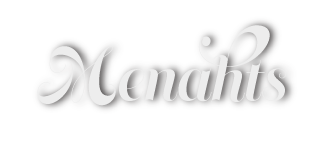
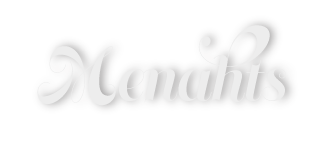
make edits

diff --git a/styles.css b/styles.css
@@ -1,15 +1,15 @@
 .cloud-bg img{
-  width: 1200px;
+  width: 1230px;
   height: auto;
   z-index: -10;
 }
 
 /* caption */
-.menohts img{
-    top: 524px;
-    left: 453px;
+.menohts img {
+    top: 505px;
+    left: 481px;
     position: absolute;
-    width: 272px;
+    width: 242px;
     z-index: 25;
 }
 
@@ -61,15 +61,15 @@
 /* glasses */
 .table img:nth-child(5) {
     top: 150px;
-    left: 463px;
+    left: 462px;
     position: absolute;
-    width: 20px;
+    width: 22px;
     padding: 40px;
     z-index: 250;
 }
 
 .table img:nth-child(5):hover {
-  animation: grow .3s linear infinite alternate;
+  animation: grow .2s linear infinite alternate;
 }
 
 @keyframes grow {
@@ -77,7 +77,7 @@
     transform: scale(1);
   }
   to {
-    transform: scale(1.6);
+    transform: scale(1.4);
   }
 }
 
@@ -141,7 +141,7 @@
 }
 
 .table img:nth-child(10):hover {
-  animation: jump .15s ease-in-out infinite alternate;
+  animation: jump .12s ease-in-out infinite alternate;
 }
 
 @keyframes jump {
@@ -165,20 +165,19 @@
 
 /* cloud*/
 .table img:nth-child(12) {
-    top: 61px;
-    left: 205px;
+    top: 91px;
+    left: 215px;
     position: absolute;
-    width: 243px;
+    width: 254px;
     z-index: 400;
     opacity: 0;
 }
 /* rainbow*/
 .table img:nth-child(13) {
-    top: 98px;
-    left: 705px;
+    top: 8px;
+    left: 312px;
     position: absolute;
-    width: 143px;
-    z-index: 0;
+    width: 539px;
     opacity: 0;
 }
 

diff --git a/index.html b/index.html
@@ -7,7 +7,7 @@
   </head>
   <body>
     <div class="cloud-bg">
-      <img src="img/background.png">
+      <img src="img/background-alt.png">
     </div>
 
 
